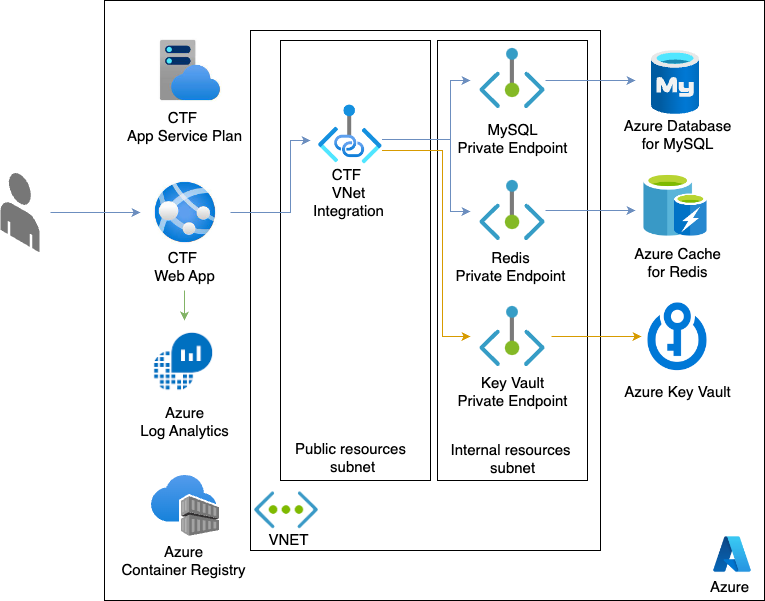
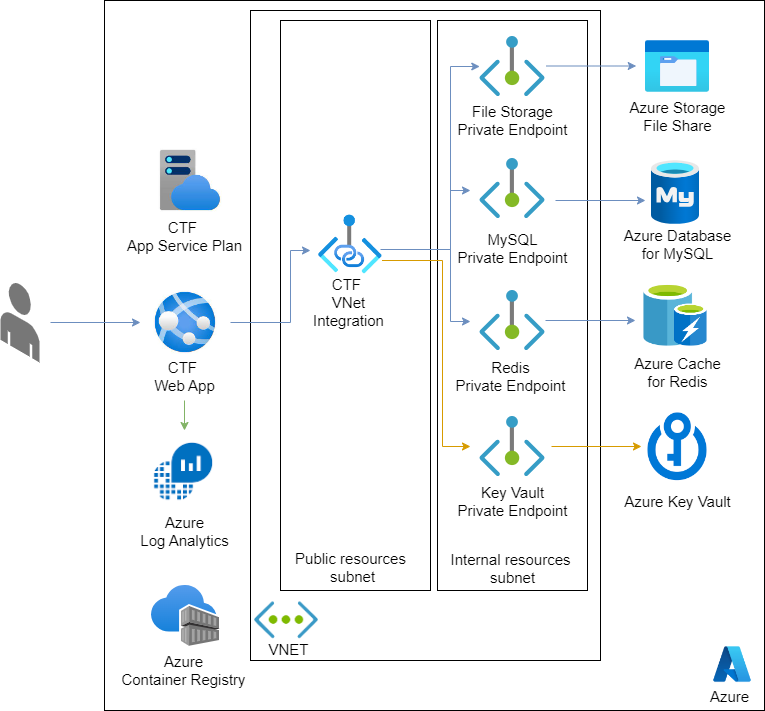
Add persistent file storage to solution using Azure Files (#25)
* add persistent storage using Azure Files

* update documentation

* update included arm file

* Add storageAccount network acls

* Fix deployment when vnet=false

* update arm azuredeploy.json

* revert changes to azuredeploy,json

---------

Changed region(s): [[0.3307, 0.0, 0.9621, 0.9285], [0.1503, 0.0599, 1.0, 1.0], [0.0, 0.2696, 0.0601, 0.5092]]

diff --git a/README.md b/README.md
@@ -1,7 +1,7 @@
 # CTFd on Azure PaaS
 
 This project sets up a self-hosted, secured [CTFd][ctfd] environment, using Azure PaaS, that is easy to maintain.
-It supports the *Capture-the-Flag with CTFd on Azure PaaS* content on the [Azure Architecture Center](link.com TODO:).
+It supports the *Capture-the-Flag with CTFd on Azure PaaS* content on the [Azure Architecture Center][azure-arch-ctfd-paas].
 
 ## Features
 
@@ -12,6 +12,7 @@ This project provides the following features:
 * Infrastructure as Code with [Azure Bicep][bicep].
 * High scale that meets different team sizes with [Azure App Service Web App for Containers][app-service].
 * Backend database and cache provided with Azure PaaS [Database for MySQL][mysql] and [Cache for Redis][redis].
+* Persistent file storage provided with [Azure Files][azure-files] using a [mounted SMB share][app-service-connect-storage]
 * Secrets management using [Azure Key Vault][keyvault].
 * Log Management with [Azure Log Analytics][log-analytics].
 * Adjustable level of network isolation: The solution can be provisioned either with or without virtual network. Private networking is provided using [Private Endpoints][private-endpoint] and [App Service VNet Integration][vnet-integration].
@@ -52,14 +53,14 @@ az deployment group create --resource-group $RESOURCE_GROUP_NAME --template-file
 
 ### Adjustable Network Isolation
 
-By default the solution isolates network traffic from the CTFd App Service to the internal services (database, cache and key mangement) using a virtual network.
+By default the solution isolates network traffic from the CTFd App Service to the internal services (database, cache and key management) using a virtual network.
 You may reduce the solution complexity and potentially optimize cost by provisioning it without network isolation using the following command:
 
 ```bash
 az deployment group create --resource-group $RESOURCE_GROUP_NAME --template-file ctfd.bicep --parameters administratorLoginPassword=$DB_PASSWORD --parameters vnet=False
 ```
 
-When provisioing the solution without a virtual network, the archicture diagram should look like this:
+When provisioning the solution without a virtual network, the architecture diagram should look like this:
 
 ![CTFd architecture without vnet](/assets/architecture-without-vnet.png)
 
@@ -71,7 +72,7 @@ Delete the resource group using the following command
 az group delete -n $RESOURCE_GROUP_NAME
 ```
 
-### Additinal Configuratin Options
+### Additional Configuration Options
 
 The template deployment can be further configured using the following parameters:
 
@@ -98,6 +99,7 @@ Follow the [Contribution Guide](./CONTRIBUTING.md)
 * [Azure Log Analytics][log-analytics]
 * [Azure Networking][azure-networking]
 * [Azure Container Registry][container-registry]
+* [Azure Files][azure-files]
 
 <!-- Links -->
 [ctfd]: https://github.com/CTFd/CTFd
@@ -115,3 +117,6 @@ Follow the [Contribution Guide](./CONTRIBUTING.md)
 [redis-pricing]: https://azure.microsoft.com/pricing/details/cache/
 [mysql-pricing]: https://learn.microsoft.com/en-gb/azure/mysql/single-server/concepts-pricing-tiers
 [app-service-pricing]: https://azure.microsoft.com/pricing/details/app-service/linux/
+[azure-files]: https://learn.microsoft.com/en-us/azure/storage/files/storage-files-introduction
+[app-service-connect-storage]: https://learn.microsoft.com/en-us/azure/app-service/configure-connect-to-azure-storage
+[azure-arch-ctfd-paas]: https://learn.microsoft.com/en-us/azure/architecture/example-scenario/apps/capture-the-flag-platform-on-azure-paas
